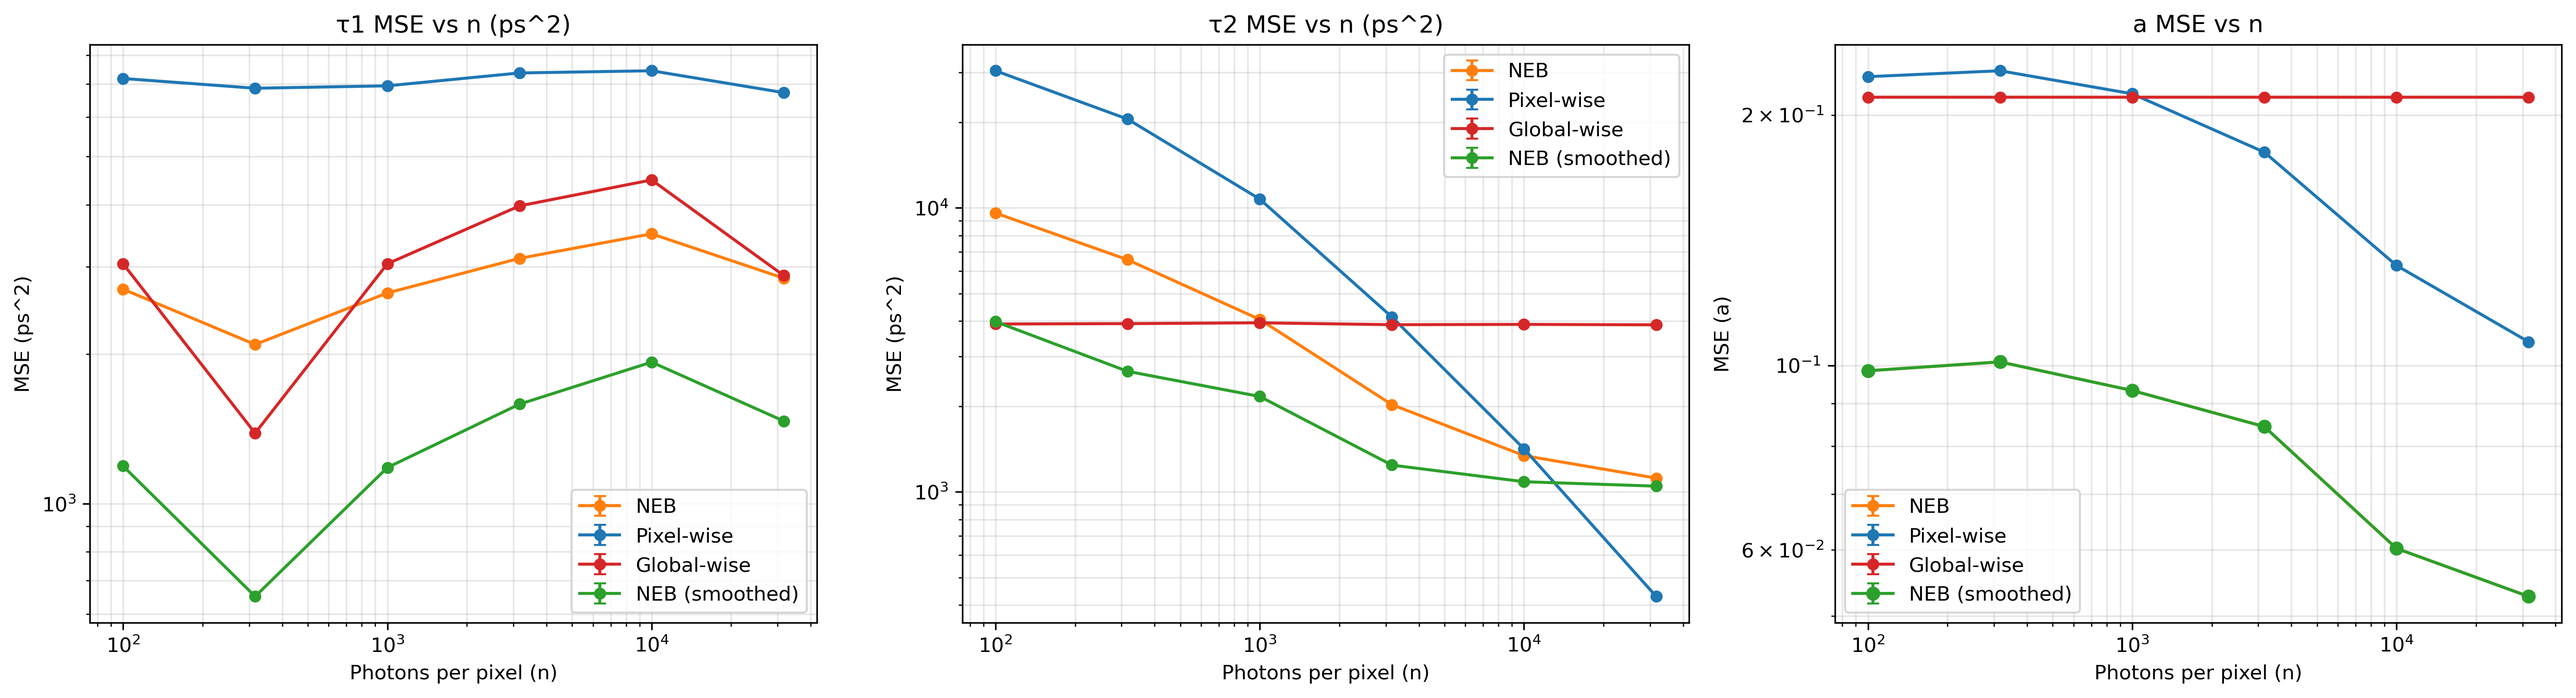
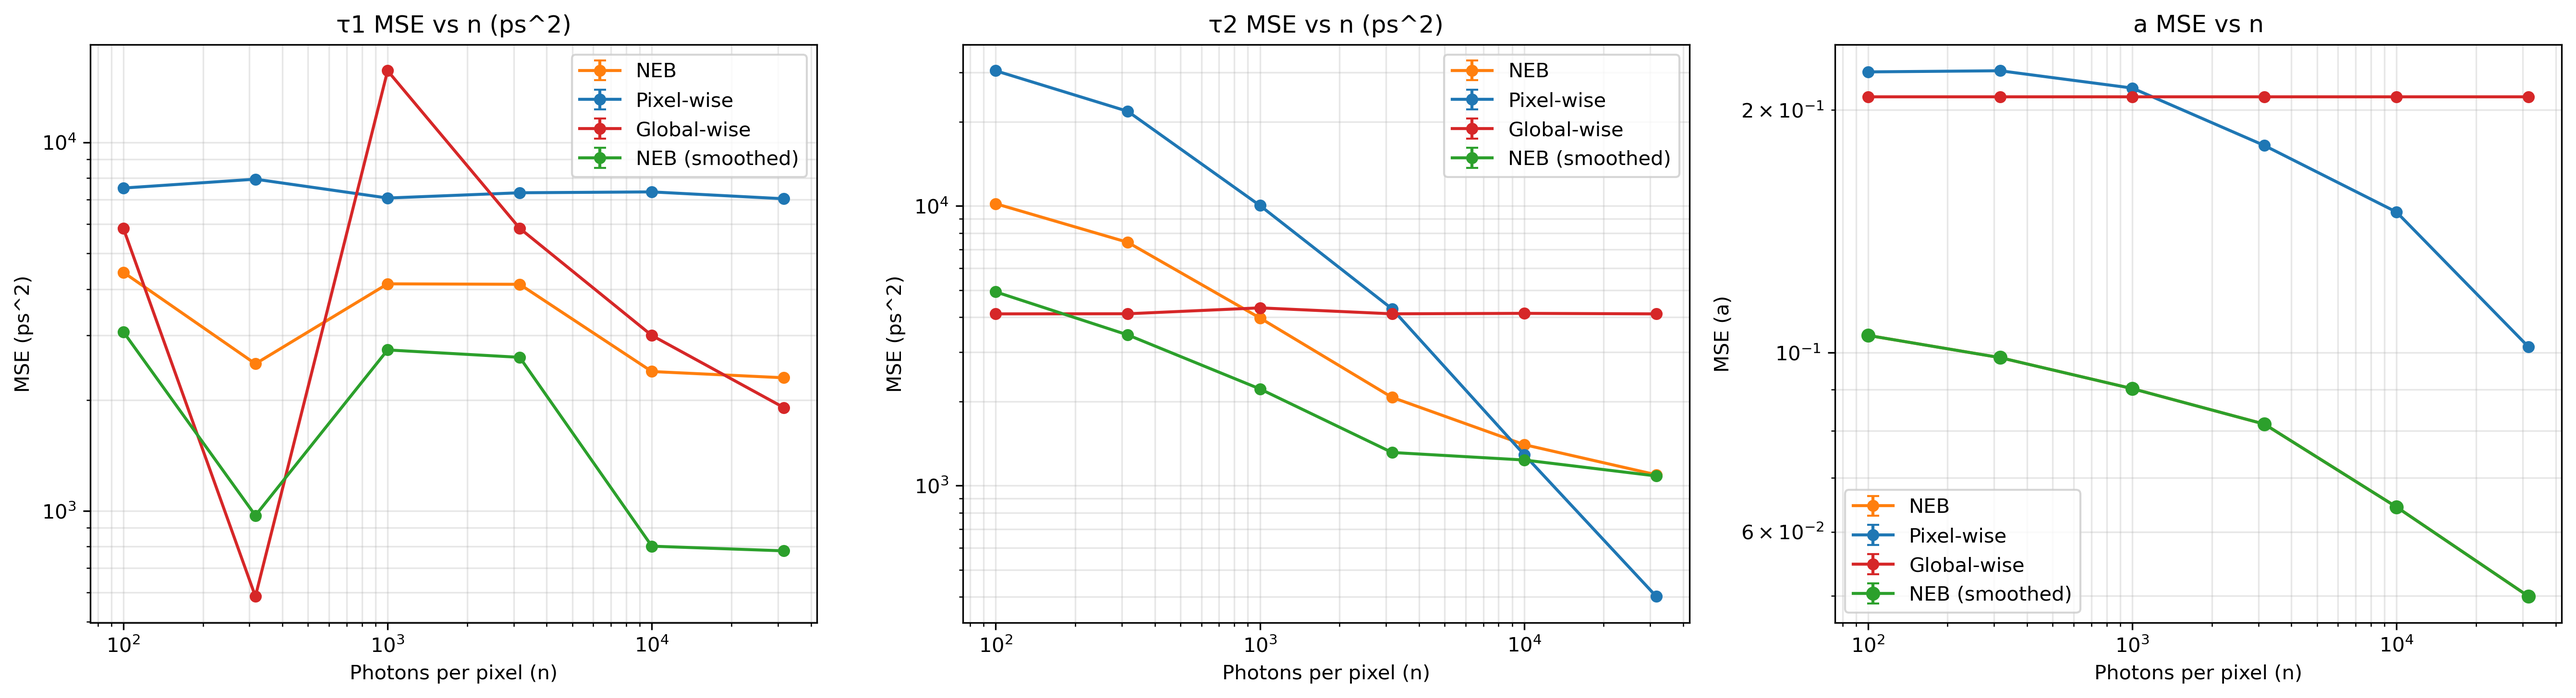
one step for smoothing

diff --git a/quick_tau_maps.py b/quick_tau_maps.py
@@ -1,0 +1,89 @@
+#!/usr/bin/env python3
+"""Quick script to generate τ1 / τ2 / a maps for a single photon count.
+
+Usage (PowerShell / Bash):
+    python quick_tau_maps.py --n 100 --out tau_maps_n100.png --smooth 0.8 --size 16
+
+Arguments
+---------
+--n         Photon count per pixel (default: 100)
+--out       Output PNG path (default: tau_maps.png)
+--smooth    λ for Laplacian smoothing (0 → disable, default: 0.8)
+--size      Image size H=W (default: 16)
+
+The script:
+1. Simulates one FLIM image with given photons.
+2. Runs pixel-wise analysis on each pixel.
+3. Optionally applies Laplacian smoothing to τ1/τ2 maps.
+4. Saves a 1×3 panel figure (τ1, τ2, a).
+"""
+from __future__ import annotations
+import argparse
+import time
+import numpy as np
+import matplotlib
+matplotlib.use("Agg")  # non-interactive
+import matplotlib.pyplot as plt
+from paper_experiment_reproduction_fixed import PaperExperimentReproductionFixed
+
+def main() -> None:
+    parser = argparse.ArgumentParser(description="Generate tau maps for a single photon count")
+    parser.add_argument("--n", type=int, default=100, help="photons per pixel")
+    parser.add_argument("--out", type=str, default="tau_maps.png", help="output PNG path")
+    parser.add_argument("--smooth", type=float, default=0.8, help="lambda for Laplacian smoothing (0=off)")
+    parser.add_argument("--size", type=int, default=16, help="image size (H = W)")
+    parser.add_argument("--jobs", type=int, default=-1, help="parallel jobs for pixel-wise fitting (-1 = all cores)")
+    args = parser.parse_args()
+
+    exp = PaperExperimentReproductionFixed(
+        image_size=args.size,
+        time_range=10.0,
+        num_channels=256,
+        irf_mean=1.5,
+        irf_std=0.1,
+    )
+
+    print(f"Simulating image ({args.size}×{args.size}) with n={args.n} photons…")
+    start = time.time()
+    histograms, _, _, _ = exp.simulate_flim_image(args.n)
+
+    H = W = args.size
+    from joblib import Parallel, delayed
+
+    print(f"Pixel-wise fitting using {args.jobs} parallel jobs…")
+    fit_results = Parallel(n_jobs=args.jobs, verbose=0)(
+        delayed(exp.pixel_wise_analysis)(hist) for hist in histograms)
+
+    tau1_map = np.array([r[0] for r in fit_results]).reshape(H, W)
+    tau2_map = np.array([r[1] for r in fit_results]).reshape(H, W)
+    a_map   = np.array([r[2] for r in fit_results]).reshape(H, W)
+
+    if args.smooth > 0:
+        tau1_map_s = exp.laplacian_smooth_2d(tau1_map, args.smooth)
+        tau2_map_s = exp.laplacian_smooth_2d(tau2_map, args.smooth)
+    else:
+        tau1_map_s, tau2_map_s = tau1_map, tau2_map
+
+    # plot
+    # Use same color scale as main experiments
+    ranges = {
+        "tau1": (0.44, 0.50),
+        "tau2": (1.85, 2.15),
+        "a":    (0.41, 0.50),
+    }
+
+    fig, axes = plt.subplots(1, 3, figsize=(14, 4))
+    axes[0].imshow(tau1_map_s, cmap="coolwarm", vmin=ranges["tau1"][0], vmax=ranges["tau1"][1])
+    axes[0].set_title("τ1 (ns)")
+    axes[1].imshow(tau2_map_s, cmap="coolwarm", vmin=ranges["tau2"][0], vmax=ranges["tau2"][1])
+    axes[1].set_title("τ2 (ns)")
+    axes[2].imshow(a_map, cmap="coolwarm", vmin=ranges["a"][0], vmax=ranges["a"][1])
+    axes[2].set_title("a")
+    for ax in axes:
+        ax.axis("off")
+    plt.tight_layout()
+    plt.savefig(args.out, dpi=300, bbox_inches="tight")
+    print(f"Saved figure -> {args.out} (elapsed {time.time()-start:.1f}s)")
+
+if __name__ == "__main__":
+    main()

diff --git a/paper_experiment_reproduction_fixed.py b/paper_experiment_reproduction_fixed.py
@@ -390,7 +390,7 @@ class PaperExperimentReproductionFixed:
         else:
             sm_tau1 = self.laplacian_smooth_2d(pw_tau1, lambda_laplacian)
             sm_tau2 = self.laplacian_smooth_2d(pw_tau2, lambda_laplacian)
-        sm_a = self.laplacian_smooth_2d(pw_a, lambda_laplacian)
+        sm_a = pw_a.copy()
 
         # Compute MSEs
         metrics = {
@@ -613,9 +613,10 @@ class PaperExperimentReproductionFixed:
                     nebf_a = (pixel_wise_a + global_a) / 2
 
                     # Smoothed NEB (τ1 and τ2 smoothed; 'a' unchanged)
-                    nebf_tau1_s = self.laplacian_smooth_2d(nebf_tau1, lambda_laplacian)
-                    nebf_tau2_s = self.laplacian_smooth_2d(nebf_tau2, lambda_laplacian)
-                    nebf_a_s = nebf_a
+                    nebf_tau1_s = np.exp(self.laplacian_smooth_2d(np.log(np.clip(nebf_tau1, 1e-6, None)), lambda_laplacian))
+                    nebf_tau2_s = np.exp(self.laplacian_smooth_2d(np.log(np.clip(nebf_tau2, 1e-6, None)), lambda_laplacian))
+                    nebf_a_s    = nebf_a   
+
                     
                     # Calculate errors
                     pixel_wise_errors['tau1'].append(self.calculate_mse(tau1_image, pixel_wise_tau1))
@@ -1075,23 +1076,29 @@ def main():
 
     # Initialize experiment instance
     experiment = PaperExperimentReproductionFixed(
-        image_size=32,
+        image_size=16,
         time_range=10.0,  # 10 ns
         num_channels=256,
         irf_mean=1.5,
         irf_std=0.1
     )
 
-    # === Configurations per user request ===
-    L_requested = 1400  # Not used directly here, but kept for record
-    n_values_2 = [100, 316, 1000, 3162, 10000, 31623]  # 10^2 ... 10^4.5
+    # === Configurations ===
+    n_values_1 = [10]            # photons per pixel
+    L_values = [1400]            # interval number
+    n_values_2 = [100, 316, 1000, 3162, 10000, 31623]  # for Experiment 2
 
-    # --- Run Experiment 2 only (pixel-wise recovery & variants) ---
-    print("\n=== Running Experiment 2 only (for error_line_charts) ===")
+    # --- Experiment 1: Prior estimation ---
+    print("\n=== Running Experiment 1 (Prior Estimation) ===")
+    experiment_1_results = experiment.experiment_1_prior_estimation(
+        n_values_1, L_values, num_repeats=1)
+
+    # --- Experiment 2: Pixel-wise recovery & variants ---
+    print("\n=== Running Experiment 2 (Pixel-wise Recovery) ===")
     experiment_2_results = experiment.experiment_2_pixel_wise_recovery(
         n_values_2, num_repeats=1, lambda_laplacian=0.8)
 
-    # Plot error line charts
+    # Plot error line charts (Experiment 2)
     experiment.plot_error_line_charts(experiment_2_results, save_path='error_line_charts.png')
 
     # --- Summary ---
